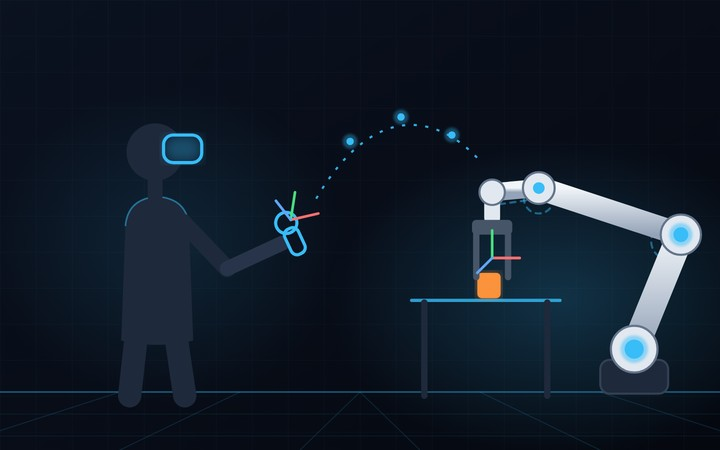
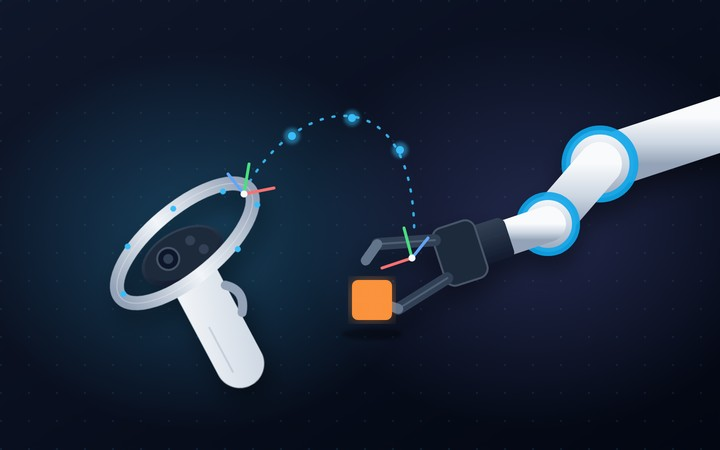
Redesign UR_ros2 thumbnail

diff --git a/index.html b/index.html
@@ -136,7 +136,7 @@
     <article class="item">
       <div class="thumb">
         <a href="https://github.com/jiaxuan0lin0/UR_ros2"><img src="images/ur-ros2_thumb.jpg"
-           alt="Illustration: an operator in an XR headset teleoperates a robot arm" loading="lazy"></a>
+           alt="Illustration: an XR controller mapped to a UR robot gripper" loading="lazy"></a>
       </div>
       <div class="item-text">
         <a class="title" href="https://github.com/jiaxuan0lin0/UR_ros2">UR7e Teleoperation, Data Collection &amp; Policy Deployment</a>
